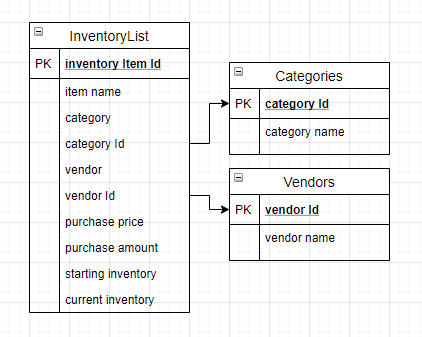
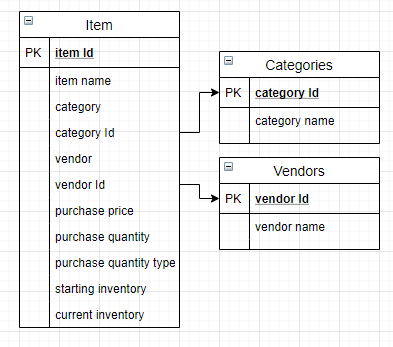
update readme with tech, swagger link, and new db diagram

diff --git a/README.md b/README.md
@@ -12,7 +12,7 @@ Heard! is the next generation of restaurant inventory and pricing systems. Desig
 
 #### As a User I want to:
 _For my overall inventory list:_
-* Be able to add items to my inventory list, including name, category(produce, meat, etc), vendor, purchase price, purchase amount(weight, volume, number of items).
+* Be able to add items to my inventory list, including name, category(produce, meat, etc), vendor, purchase price, purchase amount and type(weight, volume, number of items).
 * Be able to view my inventory list as a whole, category, vendor, or individual items.
 * Be able to delete items from my inventory list.
 * Be able to update my inventory list to reflect changes in price/vendor/quantity etc.
@@ -28,6 +28,8 @@ _For auditing my inventory_
 ## Database Diagram
 
 ![DatabaseDiagram](./HeardDatabaseDiagram.png)
+
+You can view the API endpoints [here](https://app.swaggerhub.com/apis/PRKille/heard-inventory_api/v1)
 
 ## Setup/Installation Requirements
 
@@ -46,7 +48,7 @@ _Enter the command ``dotnet tool install -g dotnet-script`` in Terminal (macOS) 
 
 ### Install PostgreSQL
 
-* _Follow the instructions found on the [PostgreSQL Tutorial](https://www.postgresqltutorial.com/install-postgresql/) page to download and verify installation of PostgreSQL.
+* _Follow the instructions found on the [PostgreSQL Tutorial](https://www.postgresqltutorial.com/install-postgresql/) page to download and verify installation of PostgreSQL._
 
 ### Clone this repository
 
@@ -71,10 +73,14 @@ _To view/edit the source code of this application, open the contents of the Libr
 ## Technologies Used
 
 * C#
-* ASP.NET Core MVC 2.2
+* ASP.NET Core MVC
 * dotnet script
 * Entity Framework Core 2.2
 * Git
+* React.js
+* PostgreSQL
+* Swagger
+* Bootstrap
 
 ## License
 
